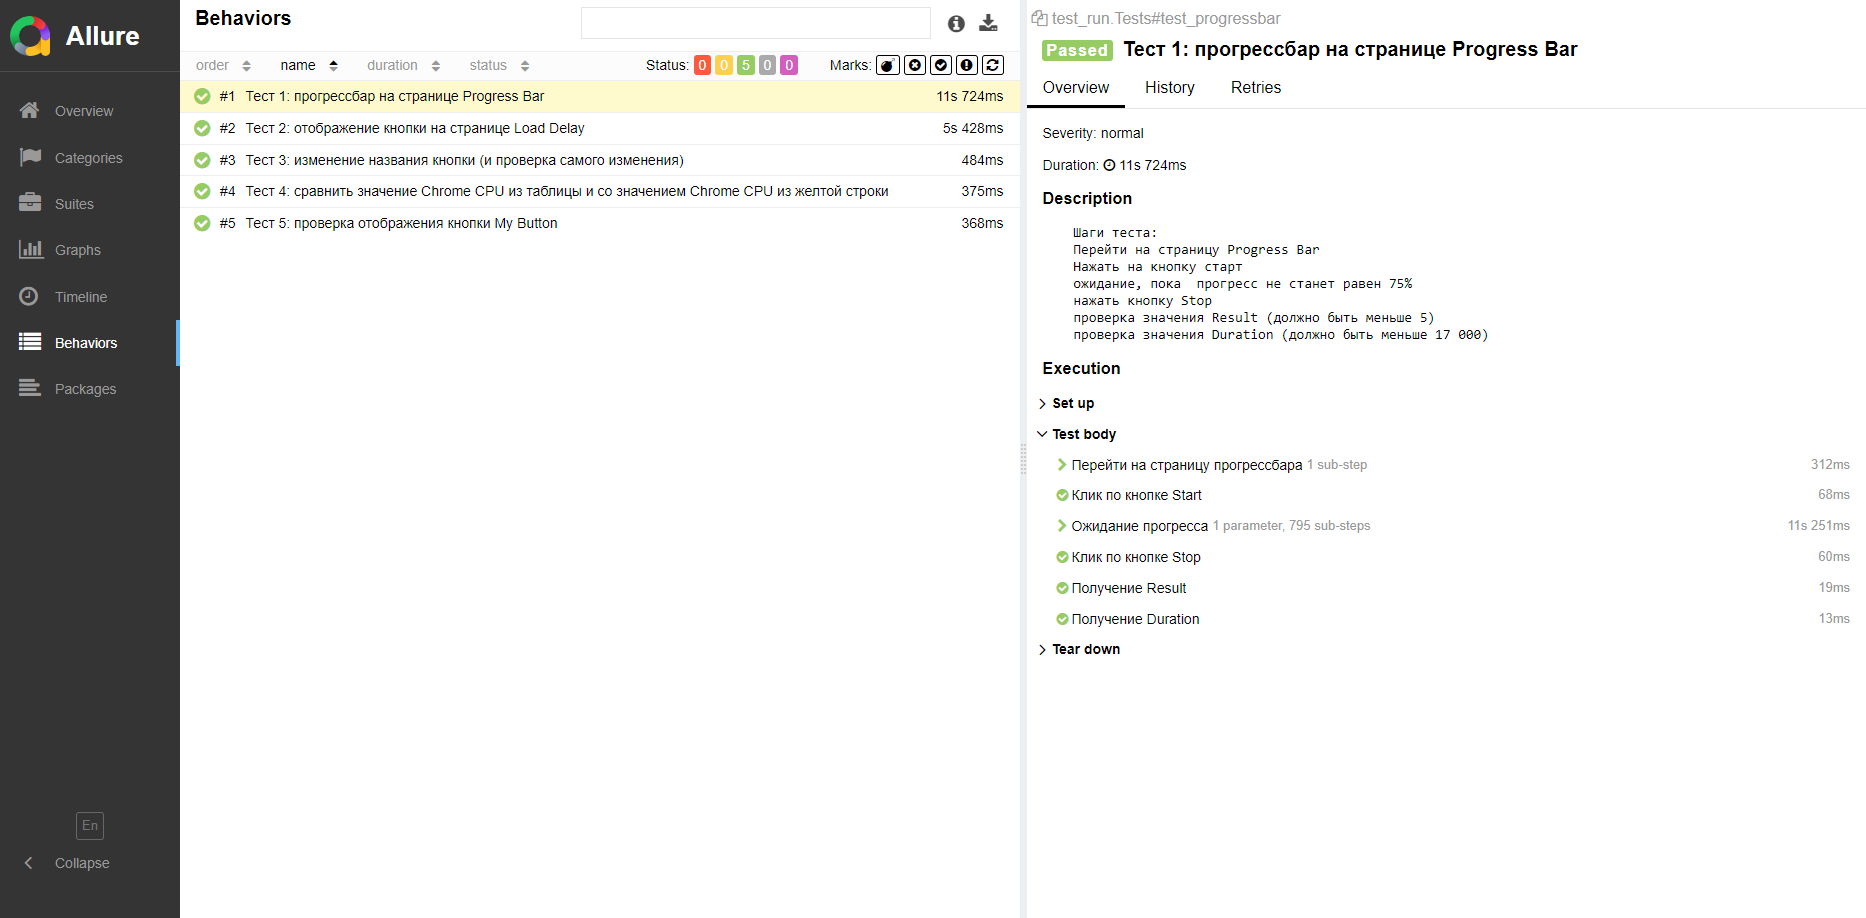
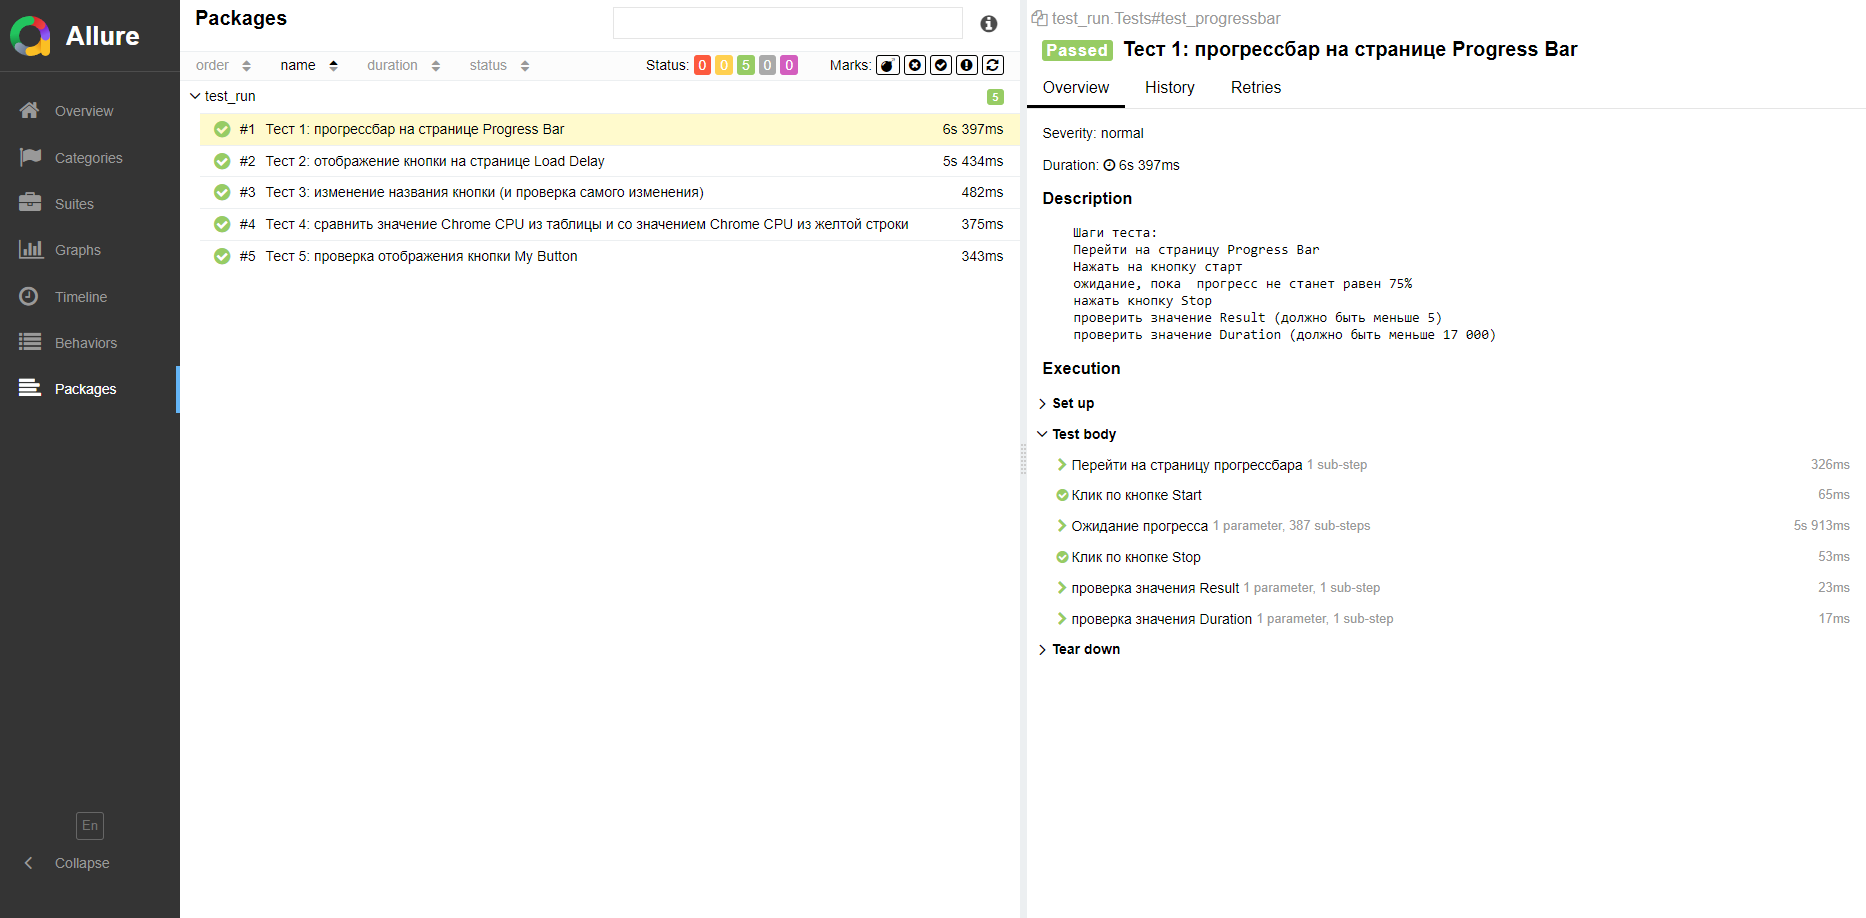
tests(update 2)

diff --git a/test_run.py b/test_run.py
@@ -18,8 +18,8 @@ class Tests:
         Нажать на кнопку старт
         ожидание, пока  прогресс не станет равен 75%
         нажать кнопку Stop
-        проверка значения Result (должно быть меньше 5)
-        проверка значения Duration (должно быть меньше 17 000)
+        проверить значение Result (должно быть меньше 5)
+        проверить значение Duration (должно быть меньше 17 000)
         ''')
     def test_progressbar(self, driver) -> None:
         progressbar_page = ProgressbarPage(driver)
@@ -31,8 +31,8 @@ class Tests:
 
         progressbar_page.click_stop_btn()
 
-        assert progressbar_page.get_result() < "5", ('[FAILED]:Result >= 5 ')
-        assert progressbar_page.get_duration() < '17000', ('[FAILED]:Duration >= 17000 ')
+        progressbar_page.check_result_value('5')
+        progressbar_page.check_duration_value('17000')
 
     @allure.title('Тест 2: отображение кнопки на странице Load Delay')
     @allure.description(
@@ -72,13 +72,12 @@ class Tests:
         '''
         Шаги теста:
         1)Перейти на страницу Dynamic Table
-        2)Получить и сравнить CPU из таблицы и строки
+        2)Cравнить CPU из таблицы и строки
         ''')
     def test_dynamic_table(self, driver) -> None:
         dynamic_table = DynamicTablePage(driver)
         dynamic_table.move_to_dynamictable()
-        assert dynamic_table.get_cpu_from_yellow_line() == dynamic_table.get_cpu_from_table(), (
-            '[FAILED]: значение из таблицы не равно значению в выделенной желтым строке ')
+        dynamic_table.compare_values_cpu()
 
     @allure.title('Тест 5: проверка отображения кнопки My Button ')
     @allure.description(

diff --git a/pages/base_page.py b/pages/base_page.py
@@ -22,10 +22,8 @@ class BasePage:
                                message=f'Элементы {by, value} не найдены')
 
     @allure.step('Переход по юрлу')
-    def move_url(self,url:str) -> str:
+    def move_url(self, url: str) -> str:
         self.driver.get(url)
-
-
 
     def get_text(self, element: tuple) -> str:
         return self.find_element(*element).text
@@ -40,5 +38,3 @@ class BasePage:
     @allure.step('Проверка отображения элемента')
     def elem_is_display(self, element: tuple) -> None:
         assert self.find_element(*element).is_displayed(), ('[FAILED]:элемент не отображается ')
-
-

diff --git a/pages/progressbar_page.py b/pages/progressbar_page.py
@@ -48,3 +48,11 @@ class ProgressbarPage(BasePage):
     def wait_for_progress(self, percent: str) -> None:
         while self.get_progress() < f'{percent}%':
             self.get_progress()
+
+    @allure.step('проверка значения Result')
+    def check_result_value(self, req_value: str) -> None:
+        assert self.get_result() < req_value, (f'[FAILED]:Result >= {req_value} ')
+
+    @allure.step('проверка значения Duration')
+    def check_duration_value(self, req_value: str) -> None:
+        assert self.get_duration() < req_value, (f'[FAILED]:Duration >= {req_value} ')

diff --git a/pages/dynamictable_page.py b/pages/dynamictable_page.py
@@ -27,3 +27,8 @@ class DynamicTablePage(BasePage):
     @allure.step('Получить значение CPU из желтой линии')
     def get_cpu_from_table(self) -> str:
         return self.get_text(self.cpu_from_table)
+
+    @allure.step('Cравнение CPU из таблицы и строки')
+    def compare_values_cpu(self) -> None:
+        assert self.get_cpu_from_yellow_line() == self.get_cpu_from_table(), (
+            '[FAILED]: значение из таблицы не равно значению в выделенной желтым строке ')

diff --git a/pages/textinput_page.py b/pages/textinput_page.py
@@ -29,5 +29,6 @@ class TextInputPage(BasePage):
     def click_btn(self) -> None:
         self.click(self.btn_name)
 
+    @allure.step('Сравнение старого названия и нового названия кнопки')
     def compare_btn_names(self, old_mane, new_name) -> None:
         assert old_mane != new_name, ('[FAILED]:Название кнопки не поменялось!')

diff --git a/pages/nbsp_page.py b/pages/nbsp_page.py
@@ -7,7 +7,6 @@ class NonBreakingSpacePage(BasePage):
     def __init__(self, driver):
         super().__init__(driver, timeout=60)
 
-        # button=(By.XPATH,"//button[text()[contains(.,'My')] and text()[contains(.,'Button')]]")
         self.button = (By.XPATH, "//button[text()='My\u00A0Button']")
 
         self.url = 'http://uitestingplayground.com/nbsp'
